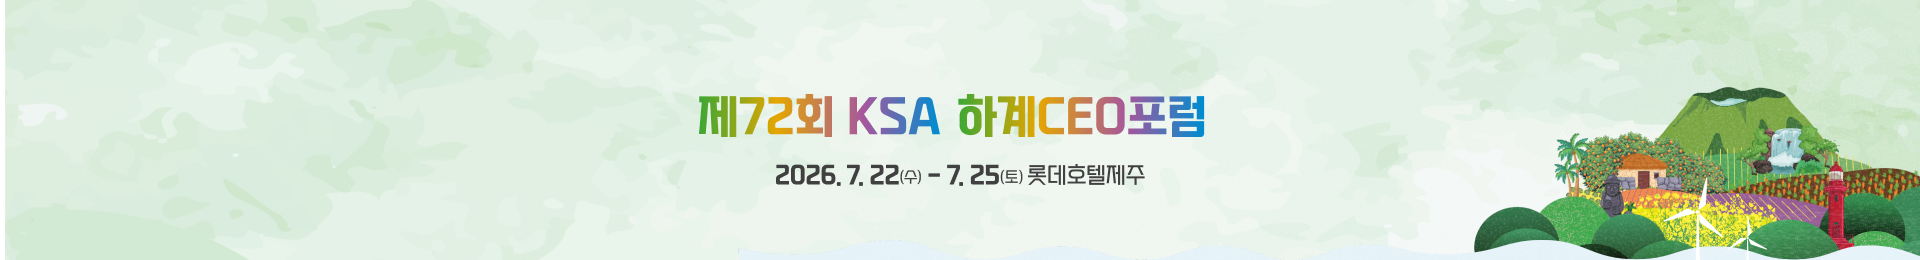
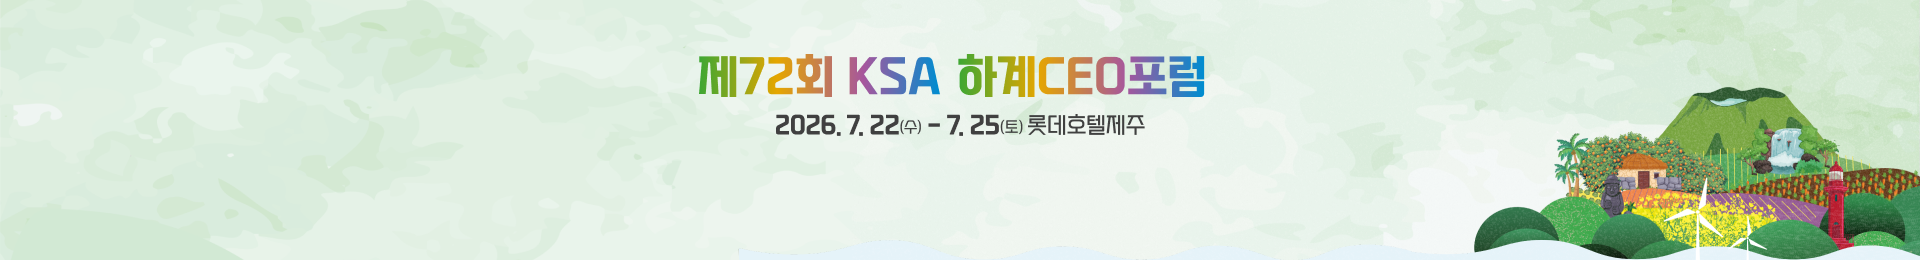
버튼컬러,이미지교체

Changed region(s): [[0.3438, 0.2154, 0.625, 0.5231], [0.4062, 0.6154, 0.5938, 0.7077]]

diff --git a/css/index.css b/css/index.css
@@ -140,11 +140,11 @@ main [data-main_wrap] [data-main_box] [data-button_wrap] [data-button_box] a {
 }
 main [data-main_wrap] [data-main_box] [data-button_wrap] [data-button_box] a:first-of-type {
   background-image: -webkit-gradient(linear, left top, right top, from(#26A3B1), to(#105B63));
-  background-image: linear-gradient(90deg, #26A3B1 0%, #105B63 100%);
+  background-image: linear-gradient(90deg, #FF8E34 0%, #FF8E34 100%);
   margin-right: 24px;
 }
 main [data-main_wrap] [data-main_box] [data-button_wrap] [data-button_box] a:last-of-type {
-  background-color: #F37C71;
+  background-color: #FFCA61;
 }
 main [data-speaker_box] {
   display: -webkit-box;

diff --git a/css/notice.css b/css/notice.css
@@ -61,7 +61,7 @@ main [data-header_box] div > a {
   font-size: 24px;
   font-weight: bold;
   background-image: -webkit-gradient(linear, left top, right top, from(#26A3B1), to(#105B63));
-  background-image: linear-gradient(90deg, #26A3B1 0%, #105B63 100%);
+  background-image: linear-gradient(90deg, #FF8E34 0%, #FF8E34 100%);
 }
 main [data-pc_content_wrap] {
   width: 100%;
